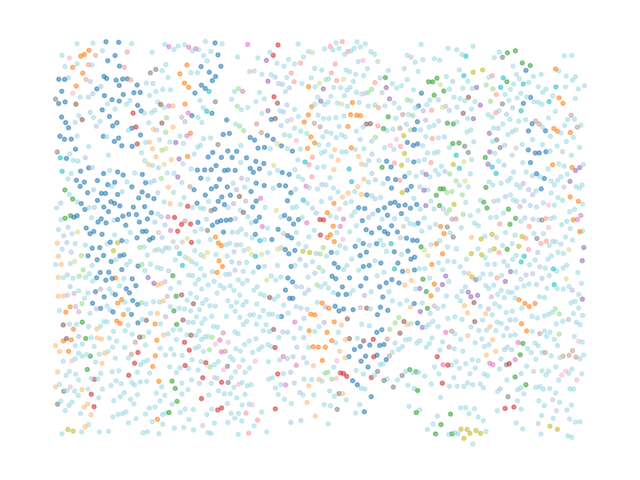
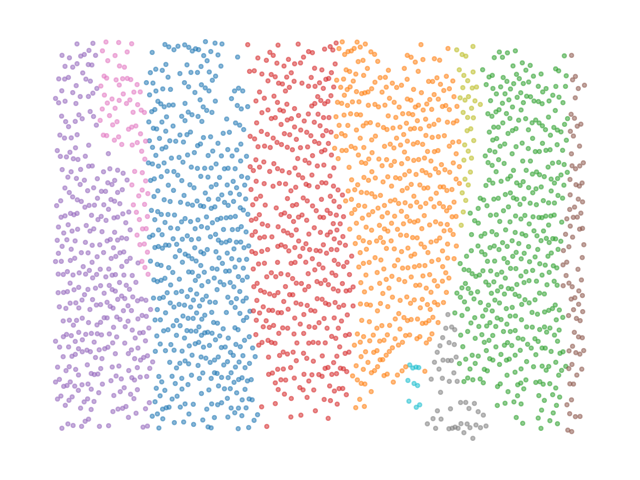
.

Changed region(s): [[0.0625, 0.0625, 0.9375, 0.9375], [0.875, 0.0938, 0.9062, 0.125]]

diff --git a/scrips/manual_clustering.py b/scrips/manual_clustering.py
@@ -44,10 +44,9 @@ for k in k_range:
 
 plt.figure(figsize=(10,6))
 plt.plot(k_range, avg_distances, color='blue', linestyle='dashed', marker='o', markerfacecolor='red', markersize=6)
-plt.title('Average K-Distance vs. K Value (Find the Elbow)')
+plt.title('Average K-Distance vs. K Value (Find the Elbow)' )
 plt.xlabel('K (Number of Neighbors)')
 plt.ylabel('Average Distance to K-th Neighbor')
-plt.close()
 plt.show()
 
 from kneed import KneeLocator